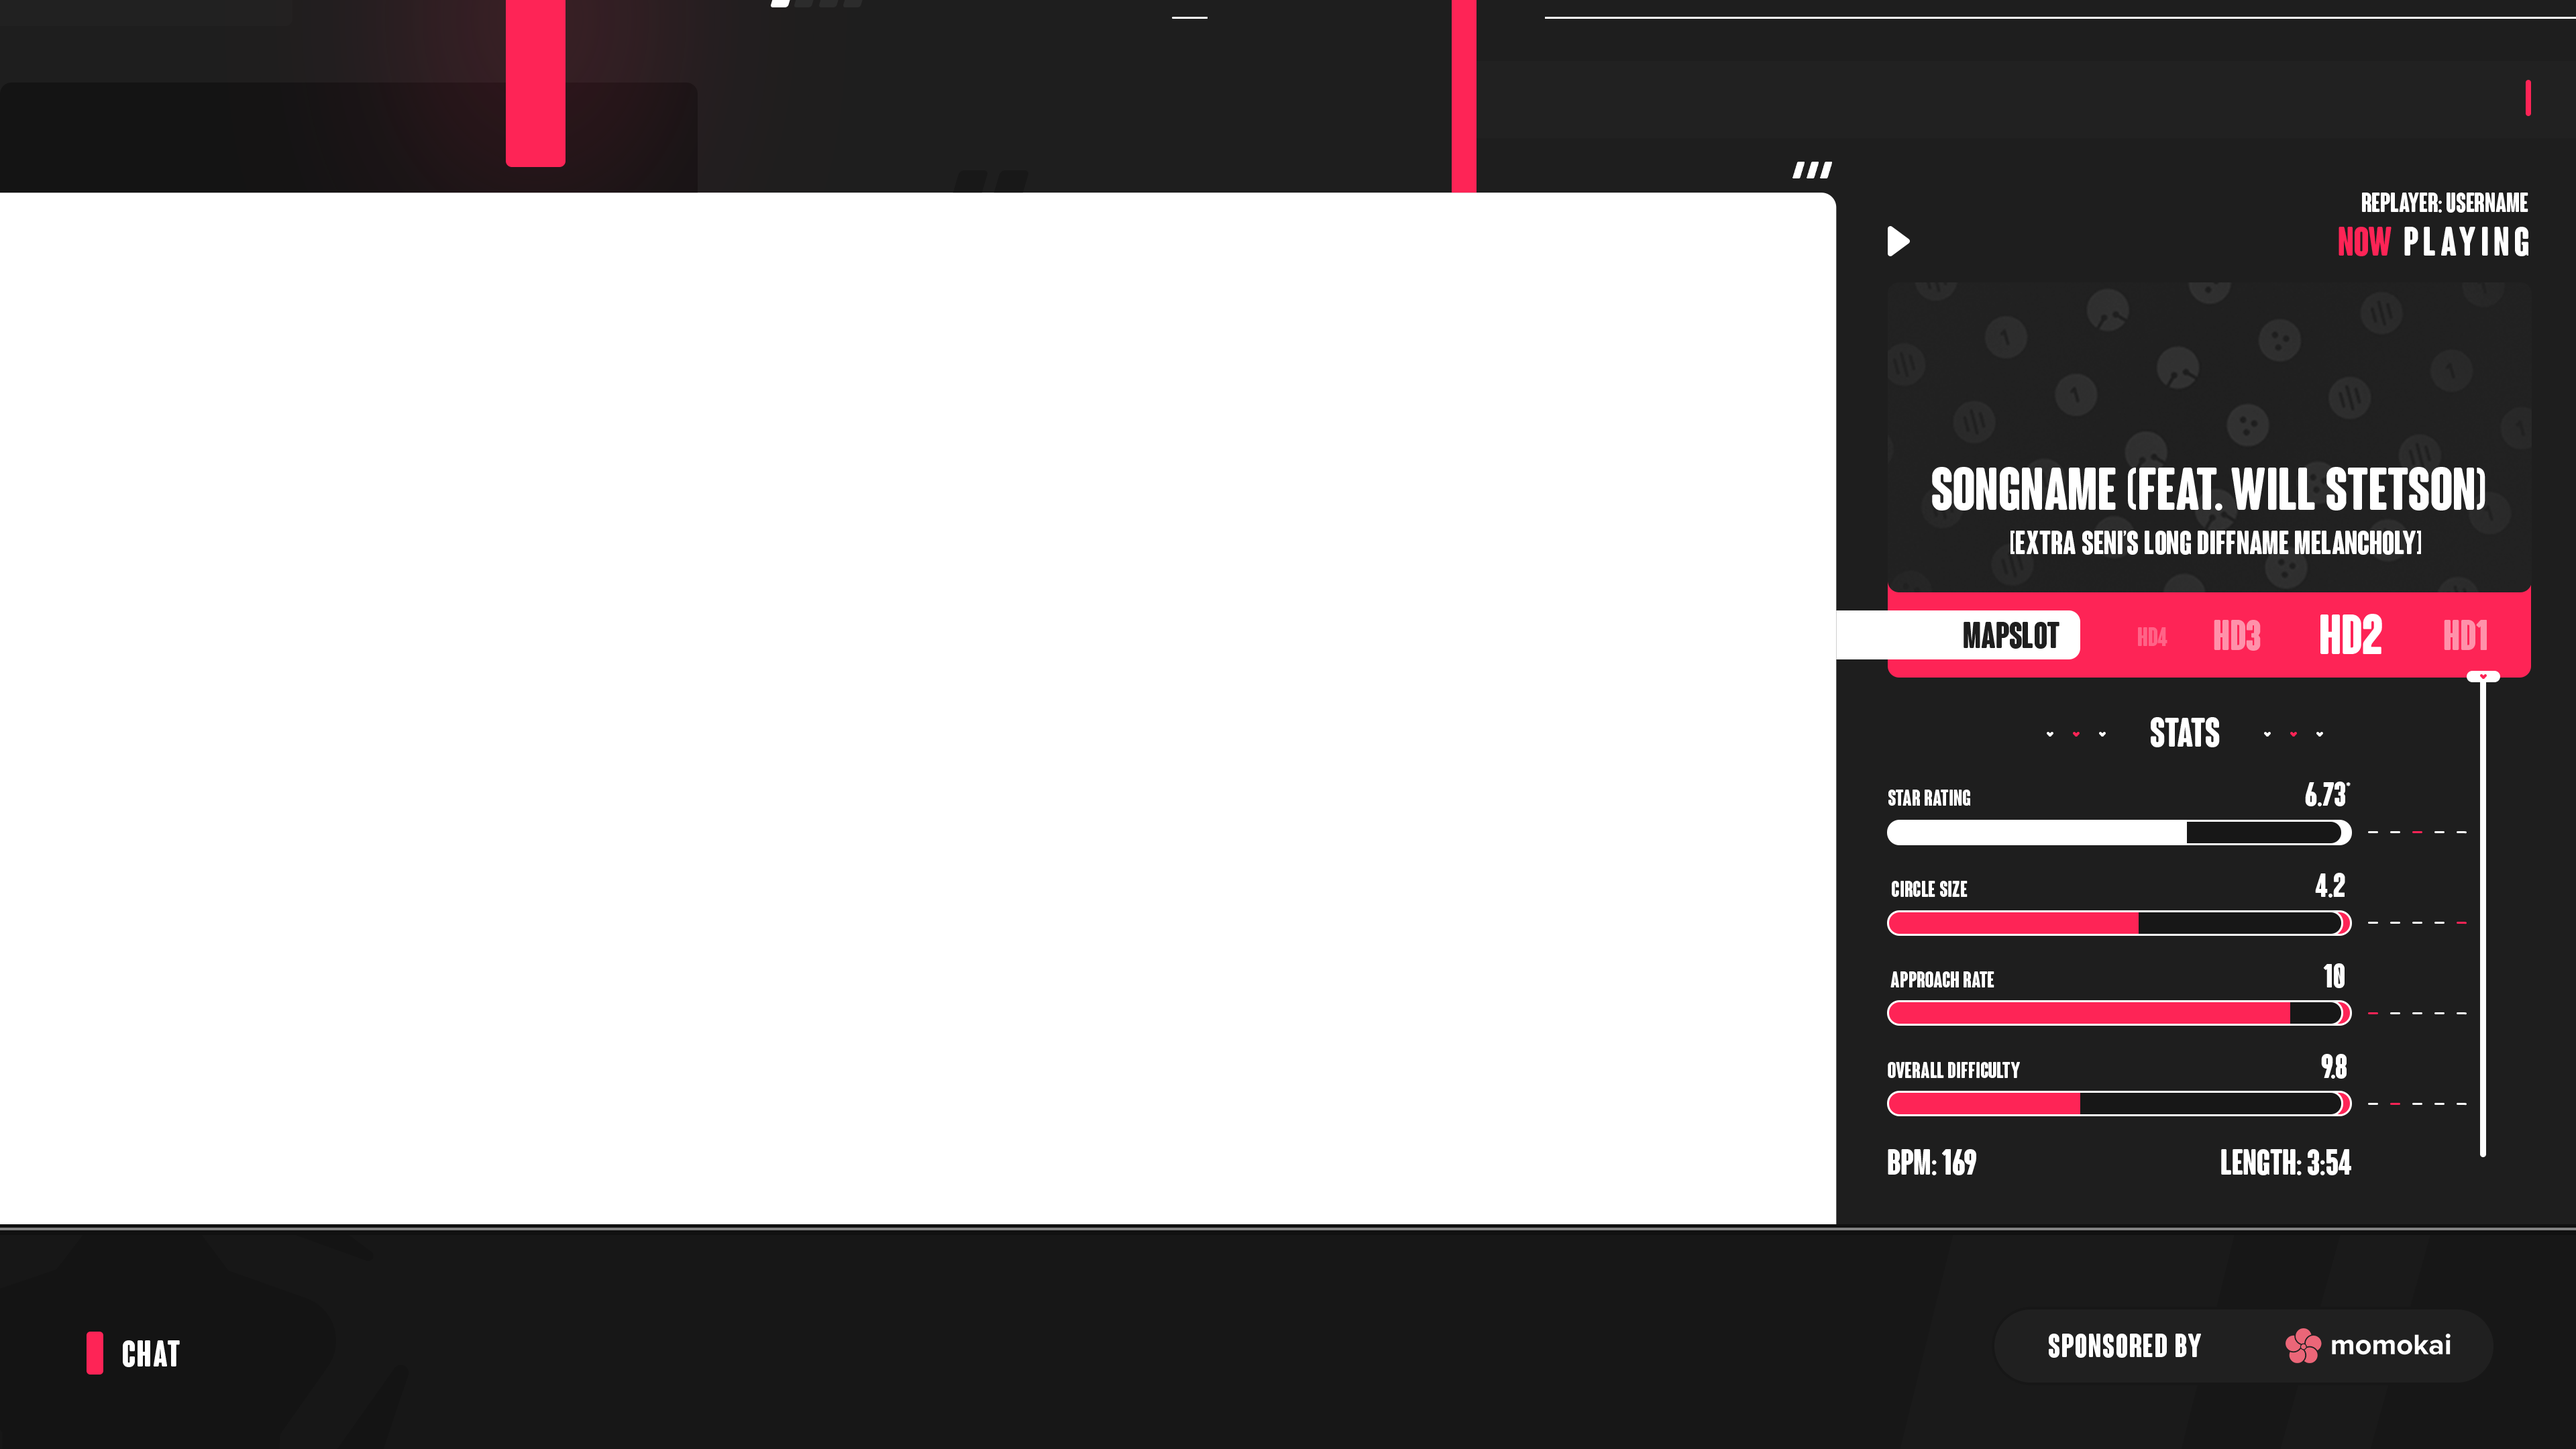
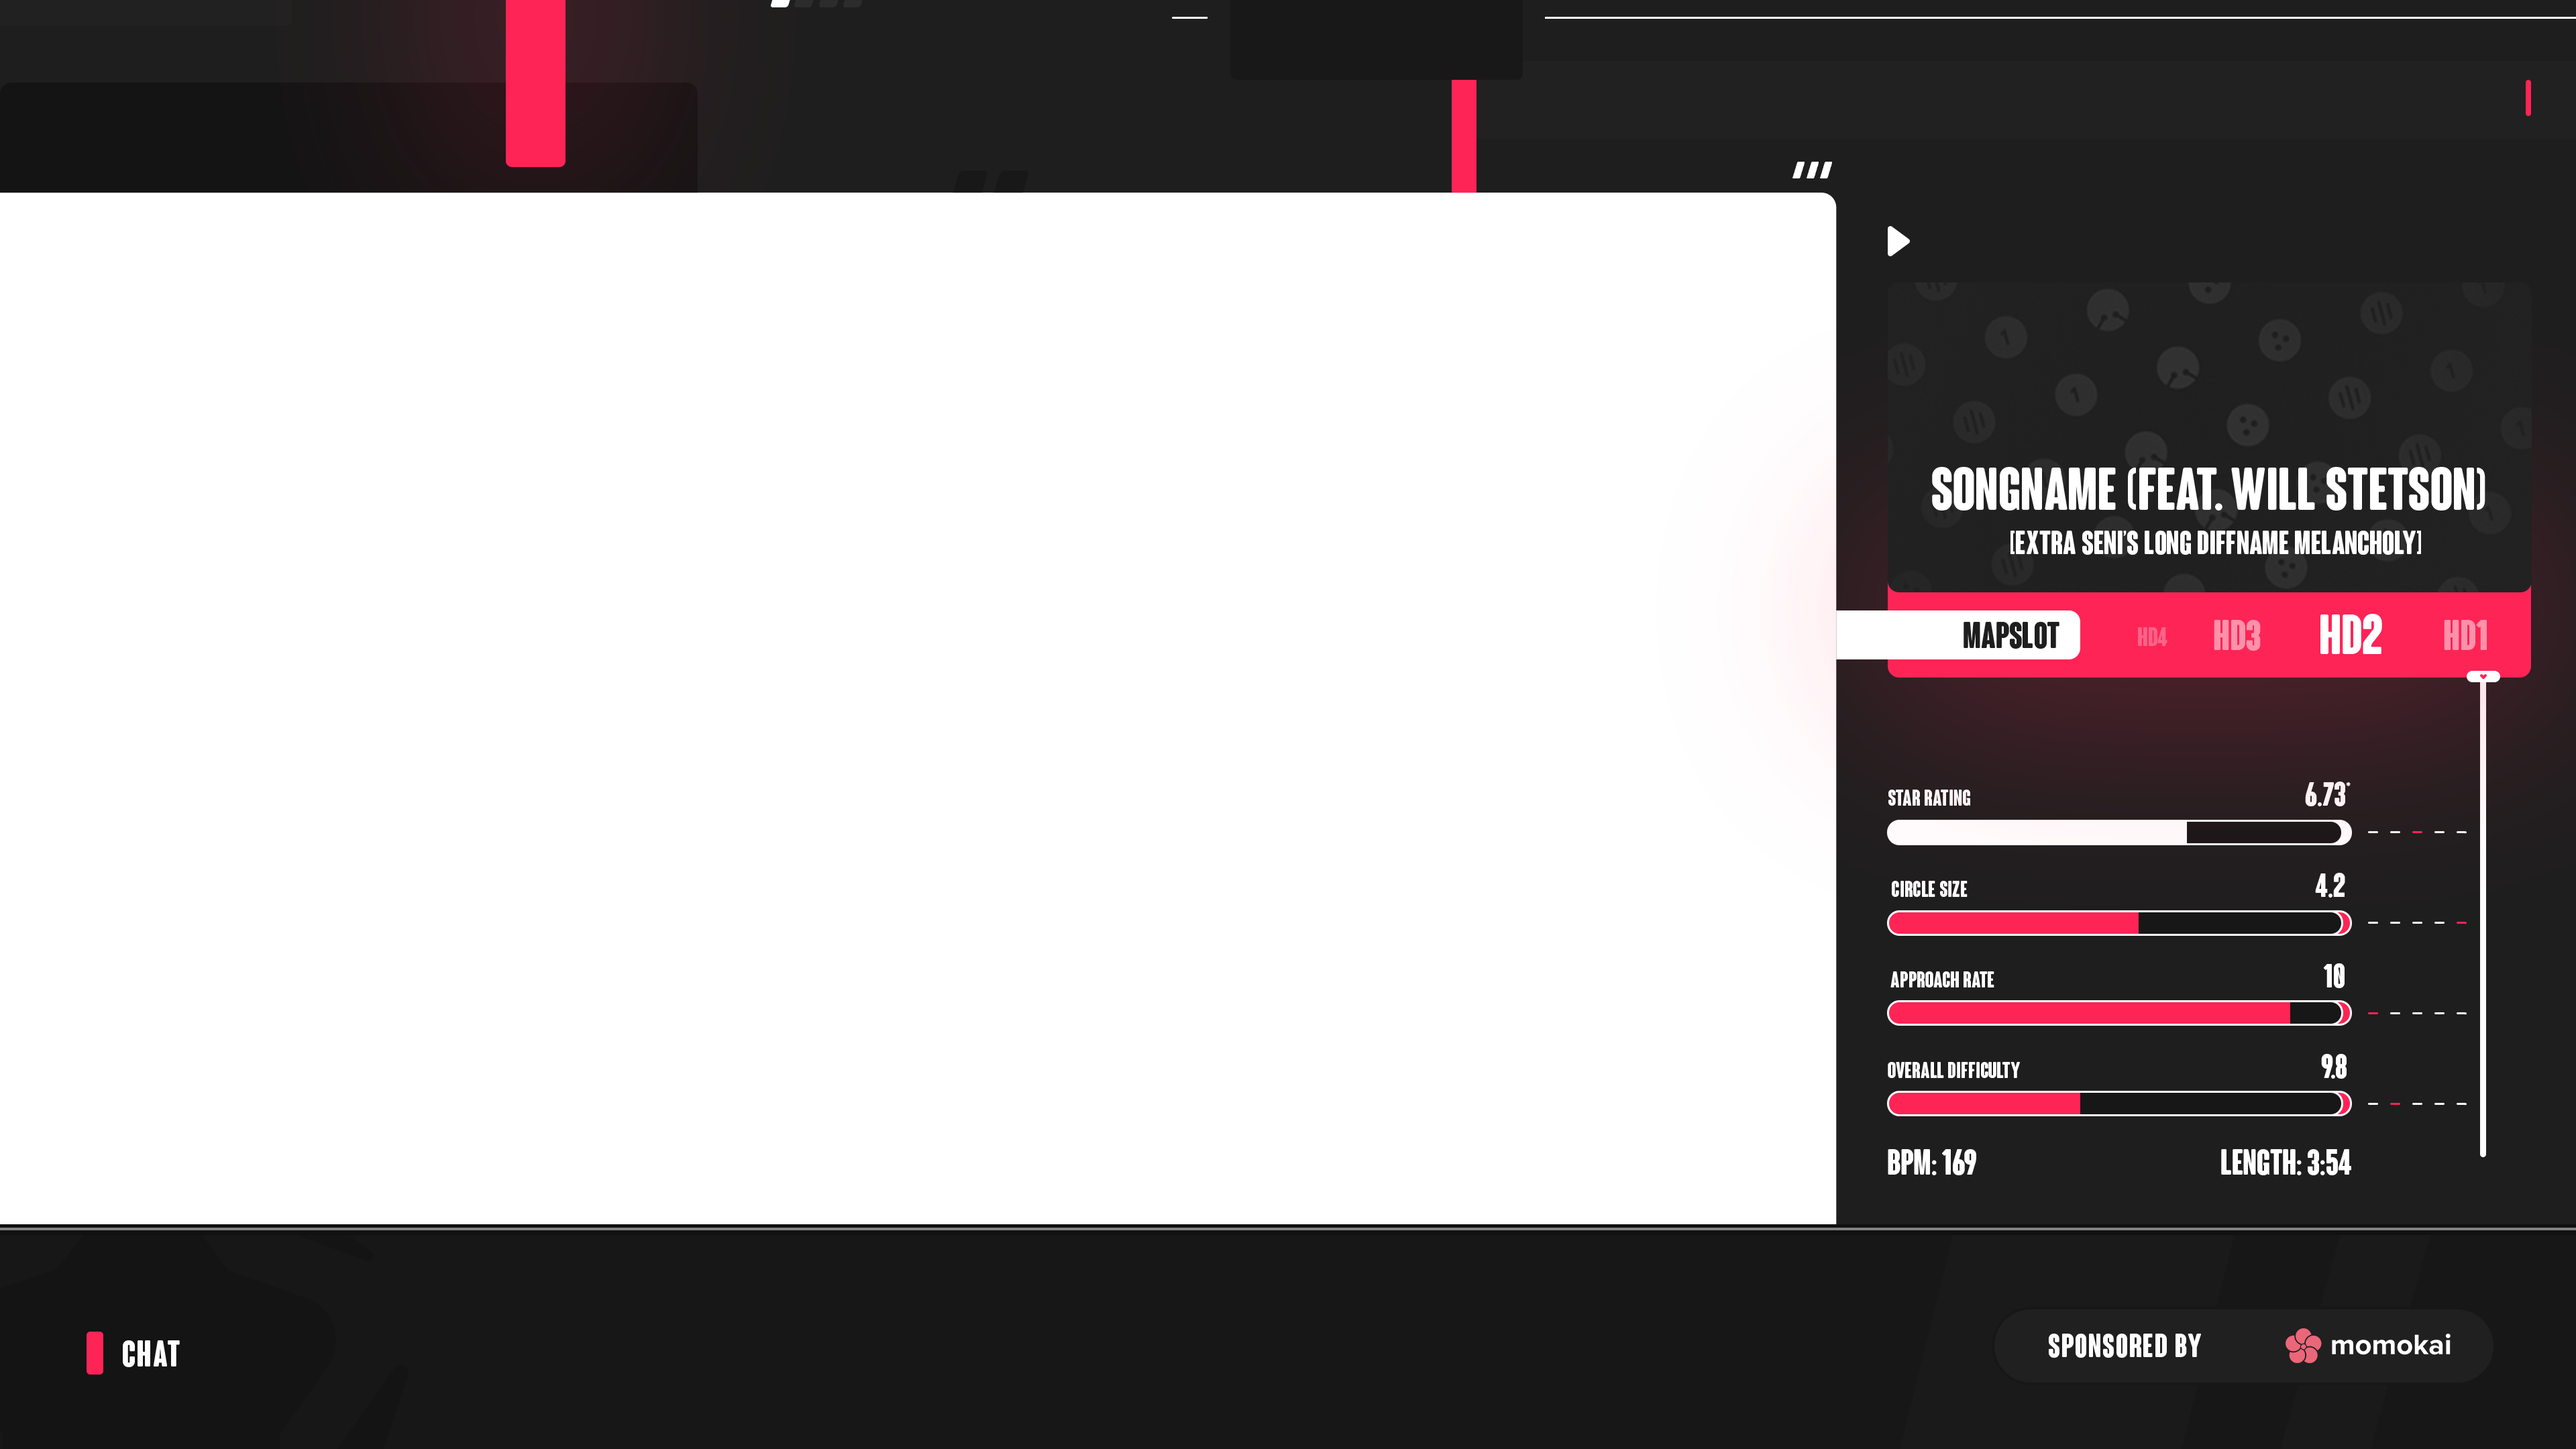
Scale to 3840x2160
Scaled all values to the original size of the background

Changed region(s): [[0.75, 0.4653, 0.9688, 0.5273], [0.9062, 0.1241, 1.0, 0.1861], [0.5625, 0.0, 0.5938, 0.062]]

diff --git a/showcase/css/style.css b/showcase/css/style.css
@@ -12,7 +12,7 @@
 
 #main {
     position: absolute; top: 0; left: 0;
-    width: 1920px; height: 1080px;
+    width: 3840px; height: 2160px;
     background-image: url("../static/background.png");
     background-size: cover;
     font-family: "Coluna Rounded";
@@ -22,81 +22,79 @@
 /* ----- TOP SECTION ----- */
 /* Logo */
 #logo {
-    position: absolute; top: 41px; left: 52px;
-    width: 196px;
+    position: absolute; top: 82px; left: 104px;
+    width: 392px;
 }
 /* Round Name Showcase Text */
 #roundNameShowcaseText {
-    position: absolute; left: 397px;
-    letter-spacing: -0.1px;
-    width: 300px;
+    position: absolute; left: 794px;
+    letter-spacing: -0.25px;
+    width: 600px;
 }
 #roundName {
-    position: inherit; top: 35px;
-    font-size: 48px;
+    position: inherit; top: 70px;
+    font-size: 96px;
 }
 #showcaseText {
-    position: inherit; top: 83.5px;
-    font-size: 20px;
+    position: inherit; top: 168px;
+    font-size: 40px;
 }
 /* Mappool Sheet Info */
 #mappoolSheetInfo {
-    position: absolute; top: 59px; right: 53px;
+    position: absolute; top: 118px; right: 106px;
     display: flex;
-    font-size: 27px;
-    letter-spacing: 0.2px;
-    text-indent: 0.1px;
+    font-size: 54px;
+    letter-spacing: 0.4px;
+    text-indent: 0.2px;
 }
 #fullMapoolSheet {
-    margin-right: 18px;
-    letter-spacing: 0.1px;
+    margin-right: 38px;
+    letter-spacing: 0.2px;
 }
 
 /* ----- MAP SECTION ----- */
 #map {
-    position: absolute; top: 143px; right: 0;
-    width: 552px; height: 772px;
+    position: absolute; top: 286px; right: 0;
+    width: 1104px; height: 1154px;
 }
 /* Replayer Now Playing */
 #replayerNowPlaying {
-    position: absolute; top: -3px; right: 35px;
-    width: calc(100% - 35px);
+    position: absolute; top: -6px; right: 70px;
+    width: calc(100% - 70px);
     text-align: right;
 }
 #replayer {
-    font-size: 20px;
-    letter-spacing: 0.02px;
+    font-size: 40px;
+    letter-spacing: 0.04px;
 }
 #nowPlaying {
-    position: absolute; top: 23px; right: -3px;
-    font-size: 32px;
+    position: absolute; top: 46px; right: -3px;
+    font-size: 62px;
 }
 #nowPlayingNowText {
-    margin-right: 2.5px;
-    letter-spacing: -0.3px;
-    font-size: 32px;
+    margin-right: 5px;
 }
 #nowPlayingPlayingText {
-    letter-spacing: 2.7px;
+    letter-spacing: 6px;
 }
 /* Stats Title */
 #statsTitle {
-    position: absolute; top: 386px;
-    width: 521px; height: 40px;
+    position: absolute; top: 772px;
+    width: 1042px; height: 80px;
     display: flex;
     justify-content: center;
-    font-size: 31px;
-    letter-spacing: -0.2px;
+    font-size: 62px;
+    letter-spacing: -0.4px;
 }
 .statsHearts {
     display: flex;
     align-items: center;
-    height: 36px;
+    height: 72px;
 }
 .statsHeart {
-    width: 5px; height: 3px;
-    margin: 0 7.3px;
+    width: 10px; height: 6px;
+    margin: 0 14.6px;
 }
 #statsText {
-    margin: 0 25.2px;
+    margin: 0 50px;
 }
